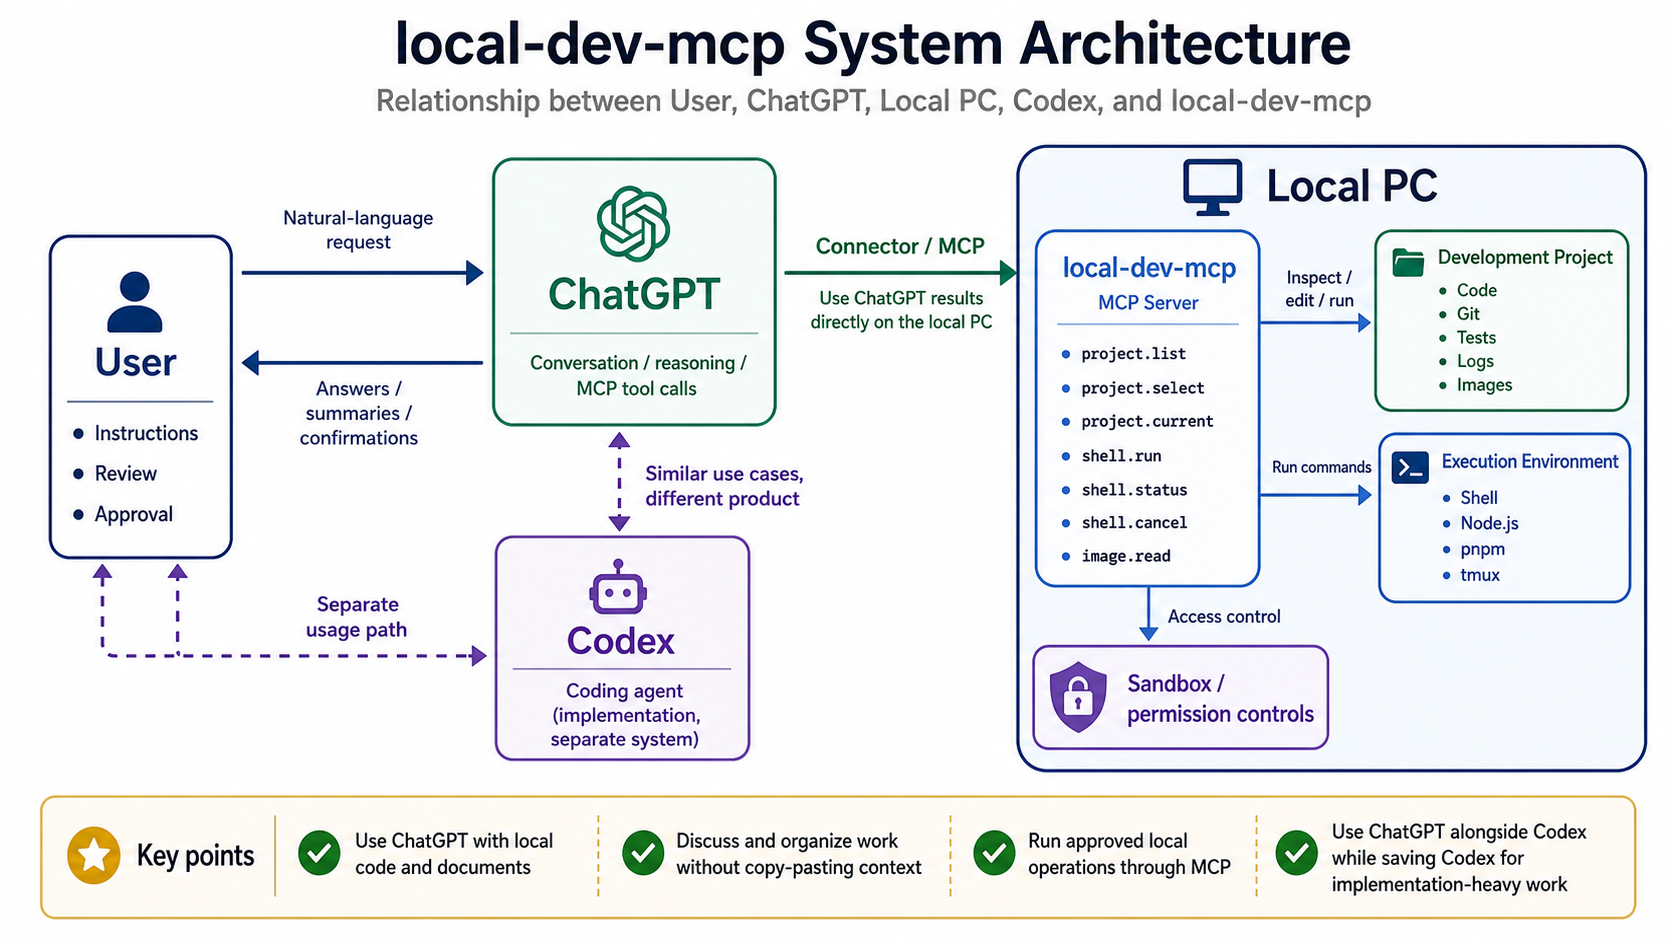
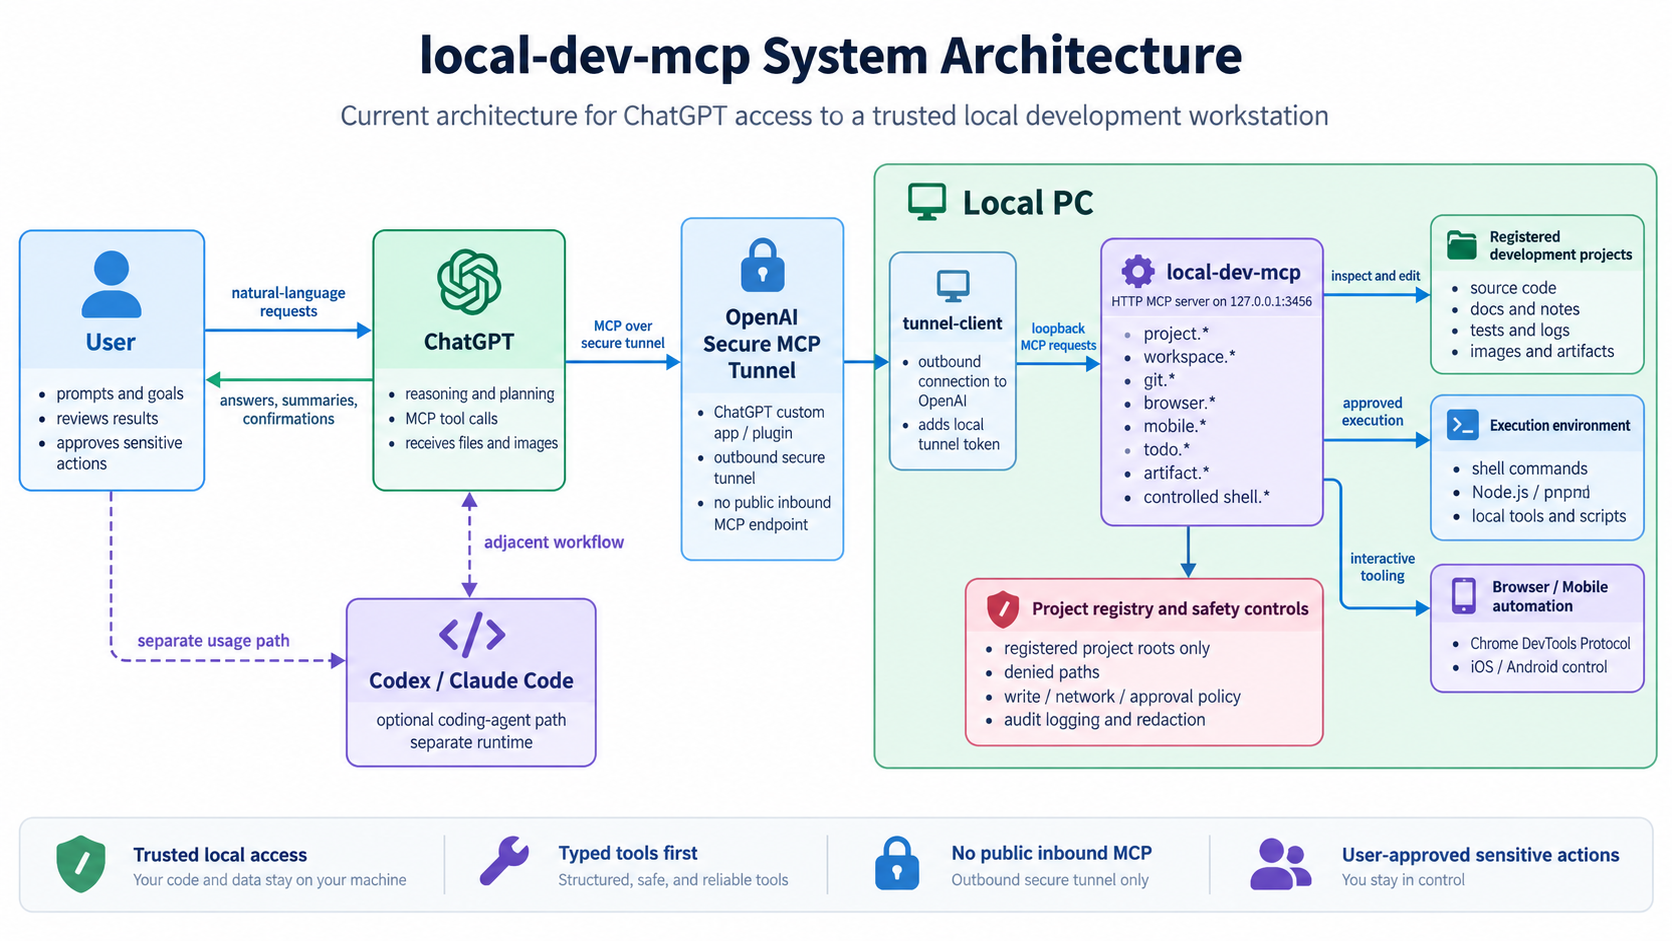
docs: restore architecture diagrams

Changed region(s): [[0.0, 0.0, 0.9952, 0.9862], [0.0311, 0.5855, 0.1244, 0.6164]]

diff --git a/README_ja.md b/README_ja.md
@@ -1,5 +1,7 @@
 # local-dev-mcp
 
+![local-dev-mcp システム構成](docs/local-dev-mcp-system-overview-ja.png)
+
 `local-dev-mcp` は、信頼した開発用PCを ChatGPT から操作するための private MCP server です。登録した project に対して、project / workspace / git / browser / mobile / Todo / artifact / controlled shell の typed tool を提供します。
 
 ChatGPT との正規接続経路は **OpenAI Secure MCP Tunnel** です。HTTP MCP server は loopback のみで待ち受け、public な MCP endpoint は公開しません。

diff --git a/README.md b/README.md
@@ -1,5 +1,7 @@
 # local-dev-mcp
 
+![local-dev-mcp System Architecture](docs/local-dev-mcp-system-overview-en.png)
+
 `local-dev-mcp` is a private MCP server for operating a trusted development workstation from ChatGPT. It exposes registered projects through typed project, workspace, git, browser, mobile, Todo, artifact, and controlled shell tools.
 
 For ChatGPT, the canonical transport is **OpenAI Secure MCP Tunnel**. The HTTP MCP server listens on loopback only and does not expose a public MCP endpoint.
